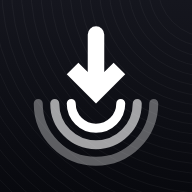
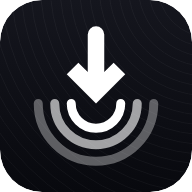
Interface T2 : icône aux bords arrondis
Les PNG « any » (192 et 512) passent en carré arrondi, coins transparents, au rayon du favicon ;
icon-arrondi.svg est leur source. Le maskable reste plein cadre, le système le découpe lui-même.
apple-touch-icon.png, opaque et plein cadre, remplace icon-192.png pour iOS, qui arrondit
lui-même et noircirait des coins transparents. Manifeste inchangé.

diff --git a/CHANGELOG.md b/CHANGELOG.md
@@ -45,7 +45,8 @@ and this project adheres to [Semantic Versioning](https://semver.org/spec/v2.0.0
 - **Fond animé par les pages** : les pochettes affichées (résultats, file) tapissent le fond, en
   gris et floutées.
 - **Nouvelle icône d'application**, aux couleurs de l'interface : une flèche posée sur les
-  sillons, pour l'onglet du navigateur comme pour l'écran d'accueil.
+  sillons, pour l'onglet du navigateur comme pour l'écran d'accueil, aux bords arrondis là où le
+  système ne découpe pas l'icône.
 
 ### Fixed
 - **Plantage en boucle au démarrage quand le dossier de configuration n'existait pas sur
